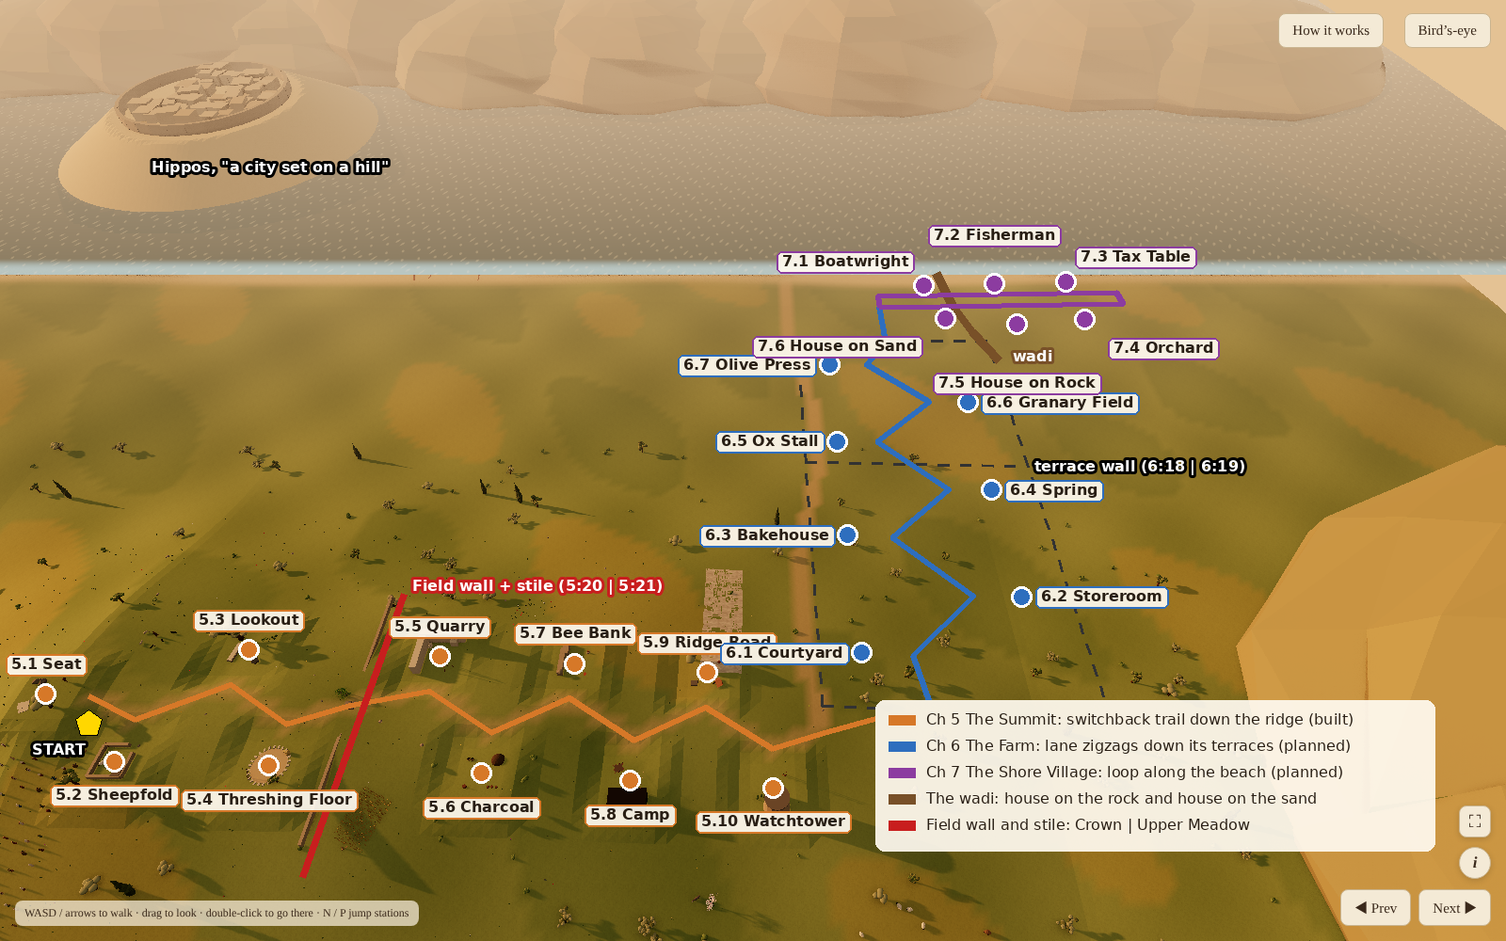
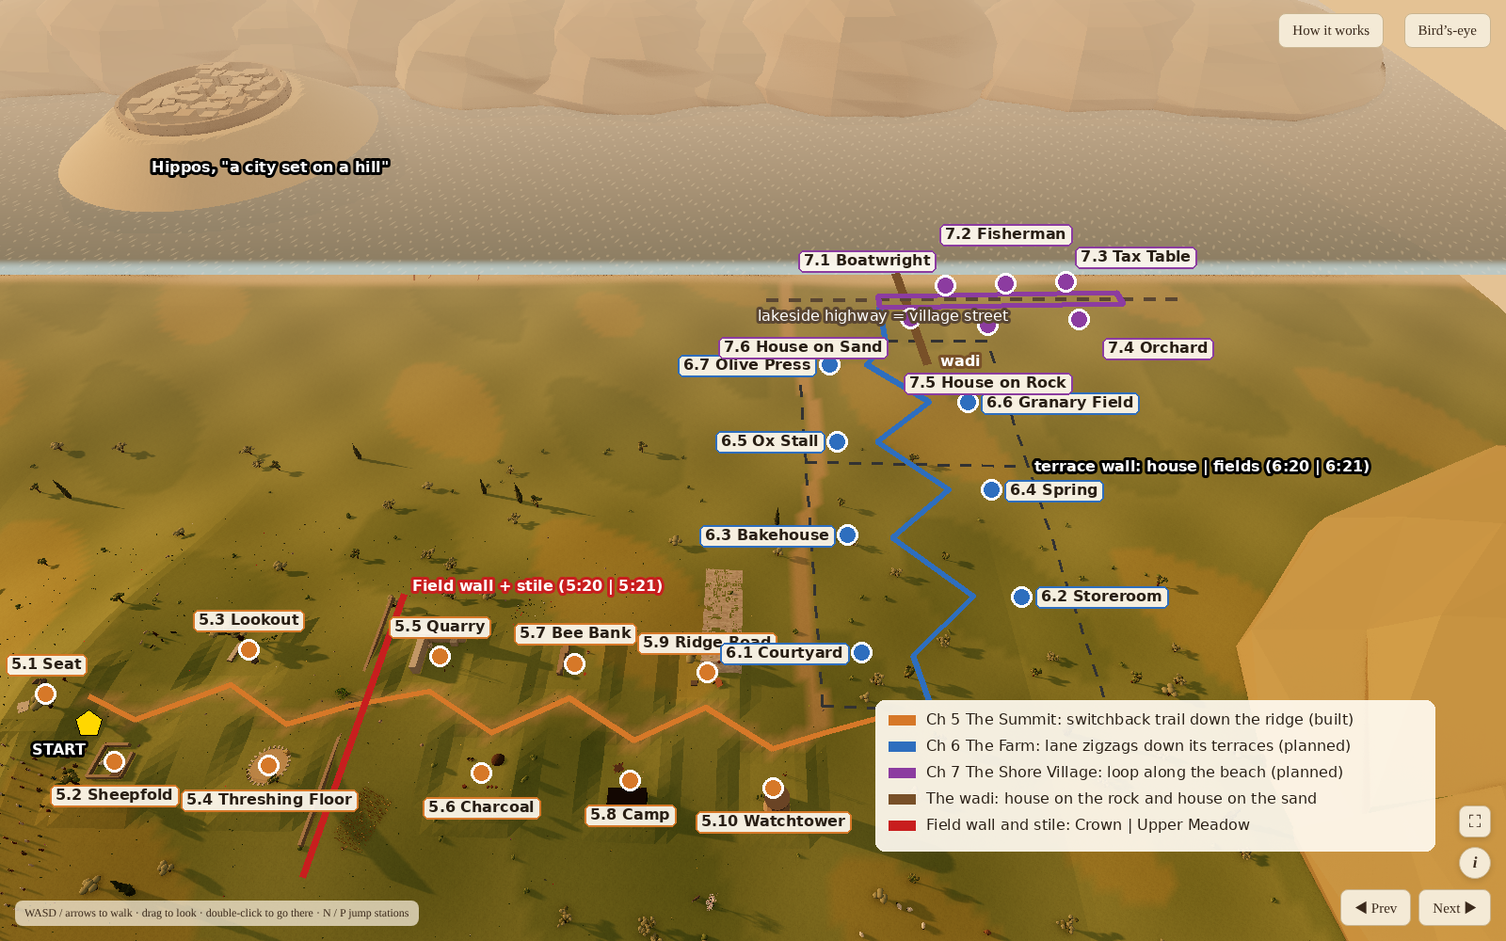
Sermon on the Mount plan: fixes from site-plan critic round 1 (terrace wall at 6:20/21, lake geometry, repeats, fixed objects, highway and wadi on the map)
Claude-Session: https://claude.ai/code/session_011GTaBjBmrRYMxR8CbFEKPF

Changed region(s): [[0.4688, 0.217, 0.8125, 0.434], [0.75, 0.465, 0.9062, 0.527]]

diff --git a/som-ltm/PLAN.md b/som-ltm/PLAN.md
@@ -42,12 +42,13 @@ The way from one district to the next leaves from the last room:
 - **Rule 3:** ceil(n/5) rooms per chapter. Room k holds verses 5k−4 … 5k, and spot i holds verse 5(k−1)+i.
 - **Rule 4:** each verse is on a spot. A spot is either a feature of the place (**P**) or an object (**O**).
   - Every room has **at least two objects** that belong to the place.
-  - Things chosen for a verse are rare: two in the whole book, marked **(v)**, each on the spot of its own verse and each natural to its place (the lamp stand 5:15 and the oil flask 6:17; the storeroom of 6:6 is the room itself, and its spot 1 is the threshold, not the door). Where a place suits a passage as a whole (a storeroom, a granary field, a house on rock), the plan avoids putting a part on the very verse it would illustrate.
+  - Things chosen for a verse are rare: two in the whole book, marked **(v)**, each on the spot of its own verse and each natural to its place (the lantern post 5:15 and the oil flask 6:17; the storeroom of 6:6 is the room itself, and its spot 1 is the threshold, not the door). Where a place suits a passage as a whole (a storeroom, a granary field, a house on rock), the plan avoids putting a part on the very verse it would illustrate.
   - **No object or named feature repeats** (see the ledger in §7).
   - Animals and loose things never count towards the two objects.
   - The five spots in a room are all different kinds of thing.
 - **Rule 5:** spots run 1 near-left → 2 far-left → 3 far-right → 4 near-right → 5 centre, as seen standing in front of the room. A shorter room uses 1, 2, 3… in that order.
 - **Rule 6:** rooms follow one fixed route, in the form that fits the ground (§1): a switchback down the summit and the farm, and a clockwise loop in the village.
+- **Size:** each room is about 6 × 6 m, its spots on a square of about 5 m. The viewer stands on the trail or street about 7 m from the centre.
 - **Facing:** every room's front faces the path. The viewer stands on the path, looking at the room on the side the route gives it. Spot 1 is the corner nearest the viewer on their left.
 - **Rule 7:** the place gives the spot, and the learner makes the picture. Places may suit the passage as a whole (an inner storeroom for "go into your room"), but objects aren't chosen to illustrate single verses.
 - **Rule 8:** ESV text.
@@ -59,11 +60,13 @@ The way from one district to the next leaves from the last room:
 - **The Crown** lies east of the wall and holds rooms 1–4 (outline: Setting, Beatitudes, Set Apart).
 - **The Upper Meadow** lies west of the wall and holds rooms 5–10 (outline: But I Tell You).
 
+**Why the Upper Meadow holds what it does.** It is one farming family's hill land, and its rooms are the work of that land, linked by low terrace lines and field paths: the quarry that supplies the terrace walls, charcoal for the farm's oven, bees among the wild thyme, the shepherds who graze the stubble, the road that takes the produce down, and the vineyard with its watchtower at the bottom of the hill.
+
 **The field wall and the stile.** The wall must read as a real boundary, not a line dropped on the grass. It marks where the open hilltop ends and worked land begins:
-- **Where it runs:** the full width of the ridge, from the brow of the north slope to the cliff edge above the lake, so there is no way round it.
+- **Where it runs:** the full width of the ridge, from the brow of the north slope to the brow of the south slope, where the hillside drops away towards the lake, so there is no way round it.
 - **What it's built of:** stones cleared from the Meadow's fields. It is knee to waist high, uneven, and ends at each side in a heap of clearance stones.
 - **The ground changes at it.** The Crown side is open grass, rock and wildflowers, with no fields. The Meadow side has the marks of work: low terrace lines across the slope, ploughed strips, and paths to the quarry and the hives.
-- **The stile:** where the trail meets the wall, three stepping stones are built through it, with a single upright gatepost beside them. An old olive tree shades the crossing, and the trail is worn bare as it passes through.
+- **The stile:** where the trail meets the wall, a gap is closed by a worn stone threshold slab you step over, with a single upright gatepost beside it. A tall cairn of clearance stones, topped with one white stone, marks the crossing, and the trail is worn bare as it passes through.
 
 The outline's first big break (5:20 / 5:21) is the stile itself.
 
@@ -75,16 +78,16 @@ The outline's first big break (5:20 / 5:21) is the stile itself.
 
 | Room | Verses | Place | 1 near-left | 2 far-left | 3 far-right | 4 near-right | 5 centre | Objects in the room |
 | --- | --- | --- | --- | --- | --- | --- | --- | --- |
-| 5.1 | 5:1–5 | **The Seat**: a rock outcrop on the crown | the old olive tree (O) | a patch of bare limestone pavement (P) | a split boulder with a thornbush in its crack (P) | a goatskin water bag hung on a stake (O) | the flat seat-rock where he sat (P) | olive tree; water bag on its stake |
+| 5.1 | 5:1–5 | **The Seat**: a rock outcrop on the crown | the old olive tree (O) | a patch of bare limestone pavement (P) | a split boulder with a caper bush in its crack (P) | a goatskin water bag hung on a stake (O) | the flat seat-rock where he sat (P) | olive tree; water bag on its stake |
 | 5.2 | 5:6–10 | **The Sheepfold**: a dry-stone pen | the gateway (P) | the corner roofed with flat slabs as a shelter (P) | the corner shaded by an oak (O) | the shepherd's crook hung on the wall (O) | the stone water trough (O) | trough; oak; crook; the flock |
-| 5.3 | 5:11–15 | **The Lookout**: a long flat rock under a great terebinth on the lake edge, open to the view of Hippos across the water, beside a cucumber field | the near end of the long flat rock (P) | the terebinth's trunk (O) | a heap of cucumbers from the field (O) | the cliff-edge boulder over the lake (P) | lamp on its stand **(v)** (O) | terebinth; cucumbers; lamp stand |
+| 5.3 | 5:11–15 | **The Lookout**: a long flat rock under a great terebinth on the south brow of the ridge, looking down the long slope to the lake and across it to Hippos, beside a cucumber field | the near end of the long flat rock (P) | the terebinth's trunk (O) | a heap of cucumbers from the field (O) | the boulder at the brow where the slope drops away (P) | a shepherd's lantern on a stone post, marking the lookout **(v)** (O) | terebinth; lantern post |
 | 5.4 | 5:16–20 | **The Threshing Floor**: a round floor of beaten earth ringed with stones, open to the west wind | a stack of sheaves (O) | the lone thorn tree at the floor's windward side (O) | the winnowing fork (O) | the floor's raised stone edge, worn smooth (P) | the threshing sledge (O) | sheaves; thorn tree; fork; sledge |
 | — | — | **The Stile**: the field wall across the ridge (5:20 / 5:21) | | | | | | |
-| 5.5 | 5:21–25 | **The Quarry**: a small stone quarry cut into the ridge | the left quarry face, striped with chisel marks (P) | a spoil heap of rock chippings at the foot of the face (P) | iron wedges hammered into a crack (O) | wooden shear-legs for lifting stone (O) | a squared block on wooden rollers (O) | wedges; shear-legs; block on rollers |
-| 5.6 | 5:26–30 | **The Charcoal Burners' Clearing**: a clearing cut in the scrub where wood is burned to charcoal | the smoking charcoal mound under its turf (O) | a row of cut stumps (P) | an axe in a chopping block (O) | charcoal heaped in rush baskets (O) | the raked ring of ash where the last mound stood (P) | mound; axe and block; rush baskets |
+| 5.5 | 5:21–25 | **The Quarry**: a small stone quarry cut into the ridge | the left quarry face, striped with chisel marks (P) | a spoil heap of rock chippings at the foot of the face (P) | iron wedges hammered into a crack (O) | wooden shear-legs for lifting stone (O) | a squared building stone on wooden rollers (O) | wedges; shear-legs; building stone on rollers |
+| 5.6 | 5:26–30 | **The Charcoal Burners' Clearing**: a clearing cut in the scrub where wood is burned to charcoal | the smoking charcoal mound under its turf (O) | a row of cut stumps (P) | an axe in a chopping stump (O) | charcoal heaped in rush baskets (O) | the raked ring of ash where the last mound stood (P) | mound; axe and stump; rush baskets |
 | 5.7 | 5:31–35 | **The Bee Bank**: clay-pipe beehives set in a stone bank | the bank's rounded end with a capstone (P) | the stacked hive pipes (O) | the smoker pot (O) | a shallow clay water dish for the bees (O) | the beekeeper's tray of comb (O) | hive pipes; smoker; water dish; tray |
 | 5.8 | 5:36–40 | **The Shepherds' Camp**: a black goat-hair tent | the tent's left guy-rope peg (P) | the tent's open front and its pole (P) | a quern at the tent's right corner (O) | a ground loom pegged out on the grass (O) | the hearth stones (O) | tent; quern; loom; hearth |
-| 5.9 | 5:41–45 | **The Ridge Road**: the road over the hill, where the village track forks off | the culvert stones where the road crosses a gully (P) | a lone carob tree (O) | a broken amphora half-buried by the road (O) | a cart with a broken wheel, propped on stones (O) | the flat stone at the fork where travellers rest (P) | carob tree; amphora; broken cart; a camel resting beyond the fork |
+| 5.9 | 5:41–45 | **The Ridge Road**: the road over the hill, where the village track forks off | the culvert stones where the road crosses a gully (P) | a lone carob tree (O) | an old fallen column drum by the road (O) | a cart with a broken wheel, propped on stones (O) | the flat stone at the fork where travellers rest (P) | carob tree; column drum; broken cart; a camel resting beyond the fork |
 | 5.10 | 5:46–48 | **The Watchtower**: a round stone vineyard tower at the meadow's low west end | the tower's wooden ladder (O) | the tower's lookout window (P) | the vine trellis (O) | — | — | ladder; trellis |
 
 **Outline signposts in chapter 5.** Each stands beside the spot where its section's first verse lives. A sign names the full path when a new higher section begins.
@@ -103,22 +106,22 @@ The outline's first big break (5:20 / 5:21) is the stile itself.
 ## 4. Chapter 6: the Farm (7 rooms)
 
 **Layout.** A walled farmstead on the long lake-side slope below the ridge's west end. A farm lane switchbacks down its terraces from the **upper gate** (north, reached from the Watchtower) to the **lower gate** (south, above the beach). This is rule 6's hillside form. The rooms stand at the lane's turns, alternating sides, each a terrace lower than the last:
-- 6.1 the Courtyard (east side), then 6.2 the Inner Storeroom (west side, built into the terrace across the lane from the house);
-- 6.3 the Bakehouse Yard (east), then 6.4 the Spring (west), at the bottom of the house terraces;
-- a **terrace wall** with a gate crosses the farm just below the Spring. Above it are the house terraces, and below it are the field terraces;
+- 6.1 the Courtyard (east side), then 6.2 the Inner Storeroom (west side, an open-fronted storeroom cut into the terrace across the lane from the house);
+- 6.3 the Bakehouse Yard (east), then 6.4 the Spring (west), the lowest of the house terraces;
+- a **terrace wall** with a gate crosses the farm just below the Spring. Above it are the house terraces (6:1–20), and below it are the field terraces (6:21–34);
 - 6.5 the Ox Stall (east), 6.6 the Granary Field (west), then 6.7 the Olive Press (east), beside the lower gate.
 
-The outline's big break, Focus Internally (6:1–18) / Focus Eternally (6:19–34), falls inside room 6.4, the Spring. Its signpost stands between the Spring's third and fourth spots, and the lane passes through the terrace-wall gate straight after. The house terraces hold the hidden life; the field terraces hold treasure, masters, birds and fields.
+The outline's big break, Focus Internally (6:1–18) / Focus Eternally (6:19–34), falls inside room 6.4, the Spring: its signpost stands between the Spring's third and fourth spots. The terrace wall below the Spring is not that break. It is simply where the house ends and the fields begin, at 6:20 / 6:21. The house terraces hold the hidden life and the start of "treasures in heaven"; the field terraces hold the lamp of the eye, the two masters, the birds and the lilies.
 
 | Room | Verses | Place | 1 near-left | 2 far-left | 3 far-right | 4 near-right | 5 centre | Objects in the room |
 | --- | --- | --- | --- | --- | --- | --- | --- | --- |
 | 6.1 | 6:1–5 | **The Courtyard**: the paved court of the farmhouse | the gate's left pier (P) | the curtained doorway into the house (P) | the stone stair up to the roof (P) | the stone roof-roller (O) | the cistern mouth with its round stone lid (O) | roof-roller; cistern lid; a donkey tethered by the gate |
-| 6.2 | 6:6–10 | **The Inner Storeroom**: a windowless room behind a shut door | the shut door's stone threshold (P) | a row of tall storage jars (O) | bunches of dried herbs from a beam (O) | a plastered wall shelf (P) | a wooden chest (O) | jars; herbs; chest |
+| 6.2 | 6:6–10 | **The Inner Storeroom**: an open-fronted storeroom cut into the terrace, its door swung back against the wall so the room can be seen | the doorway's stone threshold (P) | a row of tall storage jars (O) | bunches of dried herbs from a beam (O) | a plastered wall shelf (P) | a wooden chest (O) | jars; chest |
 | 6.3 | 6:11–15 | **The Bakehouse Yard**: the clay oven and kneading yard | the sieve on its hook (O) | the woodpile (O) | the clay oven (O) | the yard's smoke-stained corner (P) | the kneading bowl with its cloth (O) | sieve; woodpile; oven; kneading bowl; loaves cooling by the oven |
-| 6.4 | 6:16–20 | **The Spring**: where the spring runs out of the rock at the bottom of the farm | the spout (P) | flask of oil on a ledge of rock **(v)** (O) | a wash-line with a tunic drying (O) | a willow shading the bank (O) | the stepping stones across the outflow (P) | oil flask; wash-line; willow; a linen towel spread on the rocks |
+| 6.4 | 6:16–20 | **The Spring**: where the spring runs out of the rock on the lowest house terrace | the spout (P) | flask of oil on a ledge of rock **(v)** (O) | a wash-line with a tunic drying (O) | a willow shading the bank (O) | the flat stones across the outflow (P) | oil flask; wash-line; willow; a linen towel spread on the rocks |
 | 6.5 | 6:21–25 | **The Ox Stall**: an open-fronted stall | the left stall post (P) | the yoke on its peg (O) | the plough (O) | a heap of straw bedding (O) | the feeding niche cut in the back wall (P) | yoke; plough; straw; the ox |
-| 6.6 | 6:26–30 | **The Granary Field**: a granary at the edge of a field | the terrace steps (P) | a patch of lentils (O) | the scarecrow (O) | the granary door (P) | a hoe left in the furrow (O) | lentils; scarecrow; hoe |
-| 6.7 | 6:31–34 | **The Olive Press**: the press at the foot of the farm, beside the lower gate | the crushing stone: a round millstone in its stone bed (O) | the press beam's socket in the wall (P) | a stack of rope pulp-baskets (O) | the rock-cut collecting pit for the oil (P) | — | crushing stone; pulp baskets |
+| 6.6 | 6:26–30 | **The Granary Field**: a stone granary at the edge of a field | the terrace steps (P) | a patch of lentils (O) | the scarecrow on its pole (O) | the granary door (P) | a hoe left in the furrow (O) | the granary itself; scarecrow pole; (lentils and hoe are loose) |
+| 6.7 | 6:31–34 | **The Olive Press**: the press at the foot of the farm, beside the lower gate | the crushing stone: a round millstone in its stone bed (O) | the press beam in its wall socket (O) | a stack of rope pulp-baskets (O) | the rock-cut oil collecting pit (P) | — | crushing stone; press beam |
 
 **Outline signposts in chapter 6.**
 - *Sanctified Focus › Focus Internally › Public Righteousness* (6:1): 6.1 spot 1.
@@ -141,7 +144,8 @@ The outline's big break, Focus Internally (6:1–18) / Focus Eternally (6:19–3
 - Facing west along the shore, the **left side is the lakeside:** rooms 1–3, going west.
 - The loop turns at the west end of the village.
 - The **right side is the hillside:** rooms 4–6, coming back east.
-- A dry **wadi** (a stream bed that floods in winter storms) comes down the slope between the farm and the village and crosses the street just west of the entrance. 7.5, the House on the Rock, stands on the rock shelf of its west bank. 7.6, the House on the Sand, stands in its sandy bed, beside the entrance.
+- The **lakeside highway** is the village street itself: the packed-earth road along the shore that the whole loop walks, with the lakeside rooms below it and the hillside rooms above it. The Tax Table (7.3) stands on it at the west end.
+- A dry **wadi** (a stream bed that floods in winter storms) comes down the slope from below the farm and crosses the street just west of the entrance, before the first lakeside room. 7.5, the House on the Rock, stands on the rock shelf of its west bank. 7.6, the House on the Sand, stands in its sandy bed, beside the entrance.
 
 The wadi gives the last pair of rooms their real setting: a house on the rock shelf of its bank, and a house in its sandy bed. Both are plain, standing houses. The learner pictures the storm. The crowd's reaction (7:28–29) closes the walk there.
 
@@ -149,10 +153,10 @@ The wadi gives the last pair of rooms their real setting: a house on the rock sh
 | --- | --- | --- | --- | --- | --- | --- | --- | --- |
 | 7.1 | 7:1–5 | **The Boatwright's Yard**: a boat on stocks on the beach | a stack of planks (O) | the saw pit (P) | a pot of pitch (O) | the trestle with an adze (O) | the boat on its stocks (O) | planks; pitch pot; trestle; boat |
 | 7.2 | 7:6–10 | **The Fisherman's Court**: a basalt courtyard house on the shore | the courtyard entrance (P) | the fish-salting vat (O) | the net drying on poles (O) | a basket of fish (O) | the mending stone with a coil of rope (O) | salting vat; net; fish basket; rope |
-| 7.3 | 7:11–15 | **The Tax Table**: the lakeside highway at the west end of the village | the tax collector's table (O) | a stone mounting block by the road (O) | the merchants' tethering rail (O) | trade bales stacked for the tax (O) | the foot of the narrow path up the hillside (P) | tax table; mounting block; rail; bales; laden mules at the rail (scenery) |
-| 7.4 | 7:16–20 | **The Orchard**: a walled orchard on the hillside | the sluice of the irrigation channel (P) | an almond tree (O) | the pomegranate tree (O) | a shallow well with rope and bucket (O) | a pile of pruned branches (O) | almond; pomegranate; well; pruned branches |
+| 7.3 | 7:11–15 | **The Tax Table**: the lakeside highway at the west end of the village | the tax collector's table (O) | a stone mounting step by the road (O) | the merchants' tethering rail (O) | trade bales stacked for the tax (O) | the foot of the narrow path up the hillside (P) | tax table; mounting step; rail; bales; laden mules at the rail (scenery) |
+| 7.4 | 7:16–20 | **The Orchard**: a walled orchard on the hillside | the sluice of the irrigation channel (P) | an almond tree (O) | the gardener's stone seat in the wall (P) | a shallow well with rope and bucket (O) | a pile of pruned branches (O) | almond; well |
 | 7.5 | 7:21–25 | **The House on the Rock**: a stone house on the rock shelf of the wadi bank | the doorstep hewn in the rock (P) | a stone bench against the house wall (O) | the shelf's edge over the wadi (P) | the stone mortar in the yard (O) | a bundle of roofing reeds (O) | stone bench; mortar; roofing reeds; flax drying on the roof |
-| 7.6 | 7:26–29 | **The House on the Sand**: a mud-brick house standing in the wadi's sandy bed; the crowd sits on the far bank | a reed basket of dates on a palm-log seat (O) | a stack of new mud bricks drying (O) | the bank across the wadi (P) | the house's mud-brick front wall (P) | — | basket of dates; brick stack |
+| 7.6 | 7:26–29 | **The House on the Sand**: a mud-brick house standing in the wadi's sandy bed, beside the entrance; the crowd sits on the far bank | a date palm leaning over the house (O) | a reed fence round the little yard (O) | the bank across the wadi (P) | the house's mud-brick front wall (P) | — | date palm; reed fence |
 
 **Outline signposts in chapter 7.**
 - *Exhortations › Judging Hypocritically* (7:1–5): 7.1 spot 1.
@@ -184,12 +188,12 @@ Animals, the crowd and loose things are scenery and don't count as objects.
 
 | Chapter | Objects (O) | Place features (P) |
 | --- | --- | --- |
-| 5 | olive tree · water bag on a stake · stone water trough · oak · shepherd's crook · terebinth · heap of cucumbers · lamp stand (v) · sheaves · winnowing fork · thorn tree · threshing sledge · iron wedges · shear-legs · squared block on rollers · charcoal mound · axe and chopping block · rush baskets of charcoal · hive pipes · smoker pot · bees' water dish · tray of comb · quern · ground loom · hearth stones · goat-hair tent · carob tree · half-buried amphora · broken cart · tower ladder · vine trellis | limestone pavement · split boulder · seat-rock · fold gateway · slab-roofed corner · long flat rock · cliff-edge boulder  worn floor edge · chisel-marked face · spoil heap · cut stumps · ash ring · capped bank end · guy-rope peg · tent front · gully culvert · resting stone at the fork · tower lookout window  the stile |
-| 6 | roof-roller · cistern lid · storage jars · dried herbs · wooden chest · sieve · woodpile · clay oven · kneading bowl · oil flask (v) · wash-line · willow · linen towel · yoke · plough · straw bedding · lentils · scarecrow · hoe · crushing stone · pulp baskets | gate pier · curtained doorway · roof stair · storeroom threshold · wall shelf · smoke-stained corner · spout · stepping stones · stall post · feeding niche · terrace steps · granary door · press-beam socket · oil collecting pit · lower gate · terrace-wall gate |
-| 7 | planks · pitch pot · trestle and adze · boat on stocks · salting vat · net · fish basket · mending stone and rope coil · tax table · mounting block · tethering rail · trade bales · almond tree · pomegranate tree · well with rope and bucket · pruned branches · stone bench · stone mortar · roofing reeds · drying flax · basket of dates · mud-brick stack | saw pit · courtyard entrance · narrow hill path · irrigation sluice · hewn doorstep · shelf edge · far bank · mud-brick front wall |
+| 5 | olive tree · water bag on a stake · stone water trough · oak · shepherd's crook · terebinth · heap of cucumbers · lantern post (v) · sheaves · winnowing fork · thorn tree · threshing sledge · iron wedges · shear-legs · squared building stone on rollers · charcoal mound · axe and chopping stump · rush baskets of charcoal · hive pipes · smoker pot · bees' water dish · tray of comb · quern · ground loom · hearth stones · goat-hair tent · carob tree · fallen column drum · broken cart · tower ladder · vine trellis | limestone pavement · split boulder · seat-rock · fold gateway · slab-roofed corner · long flat rock · brow boulder · worn floor edge · chisel-marked face · spoil heap · cut stumps · ash ring · capped bank end · guy-rope peg · tent front · gully culvert · resting stone at the fork · tower lookout window · the stile: threshold slab, gatepost and white-topped cairn |
+| 6 | roof-roller · cistern lid · storage jars · dried herbs · wooden chest · sieve · woodpile · clay oven · kneading bowl · oil flask (v) · wash-line · willow · linen towel · yoke · plough · straw bedding · lentils · scarecrow · hoe · crushing stone · press beam · pulp baskets | gate pier · curtained doorway · roof stair · storeroom threshold · wall shelf · smoke-stained corner · spout · outflow stones · stall post · feeding niche · terrace steps · granary door · oil collecting pit · lower gate · terrace-wall gate |
+| 7 | planks · pitch pot · trestle and adze · boat on stocks · salting vat · net · fish basket · mending stone and rope coil · tax table · mounting step · tethering rail · trade bales · almond tree · well with rope and bucket · pruned branches · stone bench · stone mortar · roofing reeds · drying flax · date palm · reed fence | saw pit · courtyard entrance · narrow hill path · irrigation sluice · hewn doorstep · shelf edge · far bank · mud-brick front wall |
 | Scenery | the flock · camel · donkey · ox · mules · the crowd · loaves cooling (6.3) | |
 
-**Every room has at least two fixed objects, and none has fewer.** The rooms with exactly two are 5.1, 5.10, 6.1, 6.7 and 7.6.
+**Every room has at least two fixed objects:** trees, and things built or set in place. Loose things (a heap, a basket, a hoe) may be spots, but they are never counted towards the two.
 
 ## 8. Build order and checks
 
